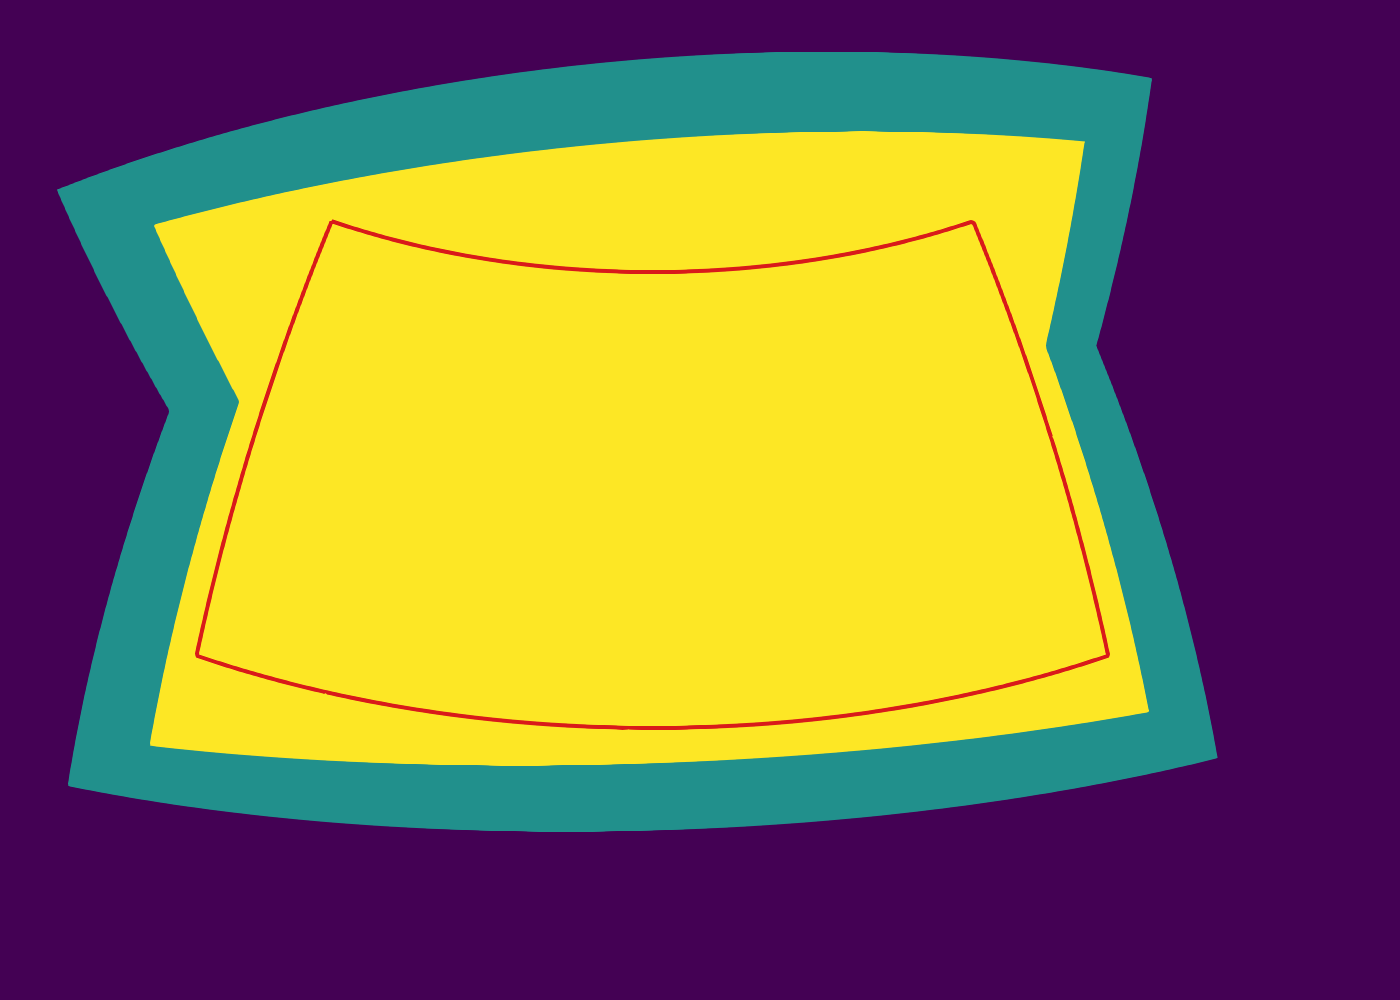
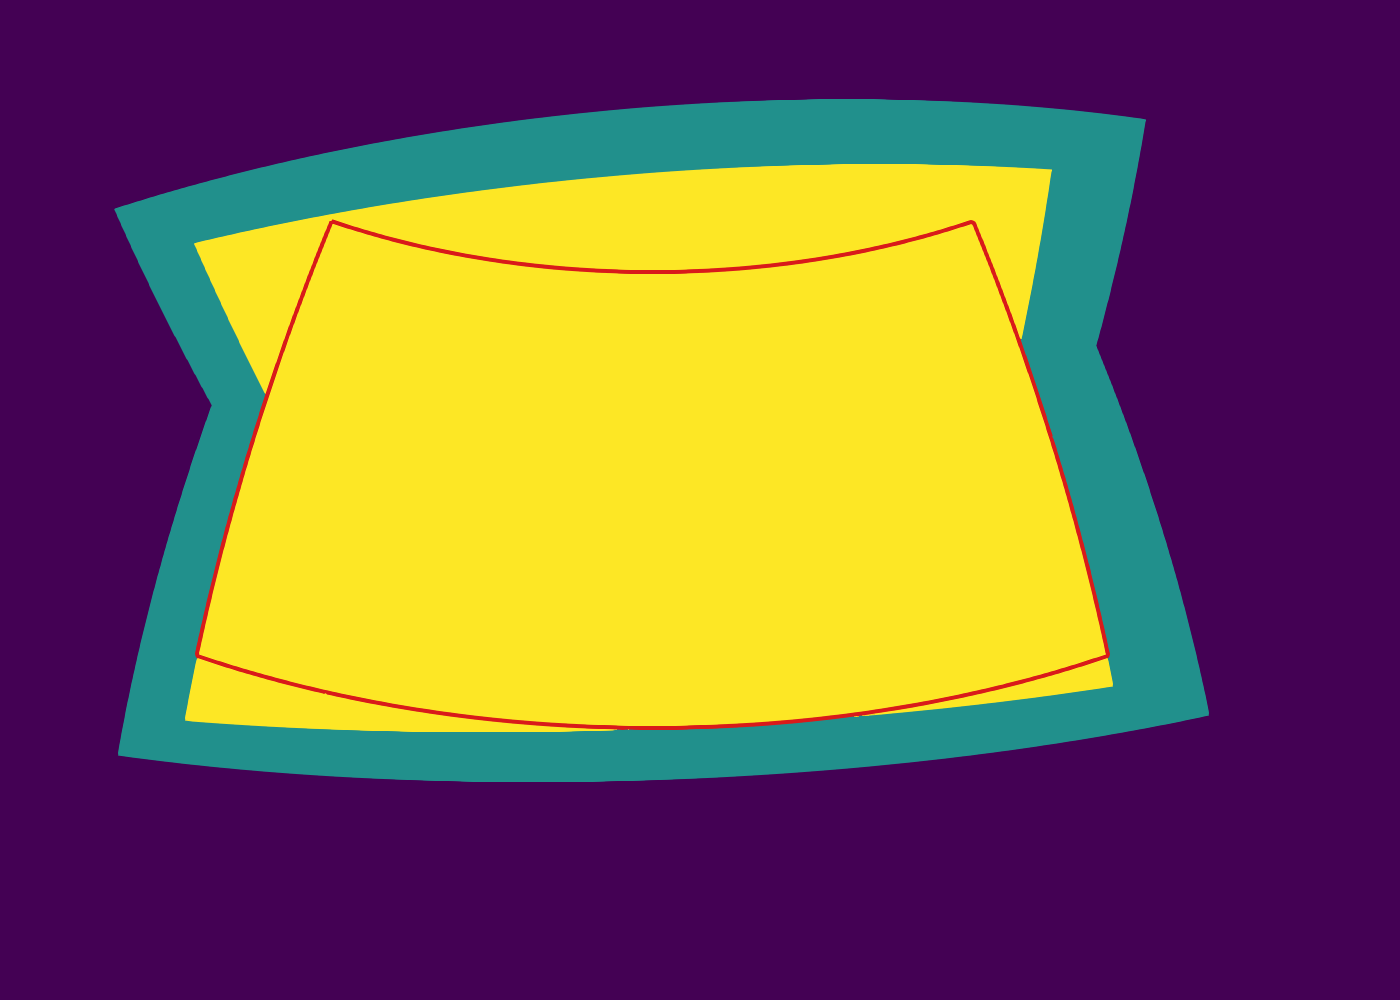
Show the optimized mesh in the regional figures

Changed region(s): [[0.0307, 0.031, 0.8907, 0.837]]

diff --git a/docs/figures/sets_algorithms.cpp b/docs/figures/sets_algorithms.cpp
@@ -30,6 +30,7 @@
 #include "soma/algorithms/grid_index.hpp"
 #include "soma/algorithms/laplacian.hpp"
 #include "soma/algorithms/polygon.hpp"
+#include "soma/algorithms/quality_smooth.hpp"
 #include "soma/algorithms/refine.hpp"
 #include "soma/algorithms/remap.hpp"
 #include "soma/amr/box.hpp"
@@ -848,13 +849,14 @@ void set_readparts(const soma::Comm& comm, const fs::path& out) {
 }
 
 // regional: the cubed sphere ne30 refined to 12 km over the contiguous United
-// States as examples/regional_refine does (2 passes, on the unit sphere,
-// written at the Earth's radius); refined.vtk, and
-// centroids.vtk after 20 sweeps of centroid smoothing onto the sphere, with
-// min_angle and refine:level, turned so that the box's centre (37 N, 95.5 W)
-// is at +z, north +y and east +x (a view from above is the map there);
-// regional.json with the cell counts and, for refined, neighbours and
-// centroids, the least and mean min_angle and the cells under 45 degrees.
+// States as examples/regional_refine does (2 passes, bands of 3 cells or more,
+// on the unit sphere, written at the Earth's radius); refined.vtk,
+// centroids.vtk after 20 sweeps of centroid smoothing onto the sphere, and
+// optimized.vtk after quality_smooth from there, with min_angle and
+// refine:level, turned so that the box's centre (37 N, 95.5 W) is at +z, north
+// +y and east +x (a view from above is the map there); regional.json with the
+// cell counts and, per mesh, the least and mean min_angle, the cells under 45
+// degrees and the worst aspect.
 void set_regional(const soma::Comm& comm, const fs::path& out) {
   constexpr double radius = 6.37122e6;
   regional::Options o;
@@ -862,10 +864,12 @@ void set_regional(const soma::Comm& comm, const fs::path& out) {
   soma::sem::CubedSphereSpec spec;
   spec.ne = 30;
   spec.radius = 1;  // the example works on the unit sphere
-  soma::HostMesh mesh = soma::sem::cubed_sphere_mesh(comm, spec);
-  const double cells0 = comm.allreduce(static_cast<double>(mesh.segment_table(2).owned_end), soma::Op::sum);
-  const regional::Passes made = regional::refine_regions(comm, mesh, o);
-  require(made.passes == 2 && made.marked == 0, "regional: two passes reach 12 km");
+  const soma::HostMesh start = soma::sem::cubed_sphere_mesh(comm, spec);
+  const double cells0 = comm.allreduce(static_cast<double>(start.segment_table(2).owned_end), soma::Op::sum);
+  regional::Graded graded = regional::refine_graded(comm, start, o);
+  require(graded.passes.passes == 2 && graded.passes.marked == 0 && graded.settled,
+          "regional: two passes reach 12 km, bands of 3 cells or more");
+  soma::HostMesh mesh = std::move(graded.mesh);
   const double cells = comm.allreduce(static_cast<double>(mesh.segment_table(2).owned_end), soma::Op::sum);
   // About z by 95.5 degrees (the centre to longitude 0), about y by 37 - 90
   // degrees (to +z), then x <- y, y <- -x (north to +y).
@@ -885,12 +889,23 @@ void set_regional(const soma::Comm& comm, const fs::path& out) {
   char head[96];
   std::snprintf(head, sizeof head, "{\"cells\": [%.0f, %.0f]", cells0, cells);
   std::string js = head;
-  for (const char* name : {"refined", "neighbours", "centroids"}) {
-    soma::HostMesh m = mesh.clone();
+  soma::HostMesh smoothed = mesh.clone();
+  for (const char* name : {"refined", "neighbours", "centroids", "optimized"}) {
     const std::string n = name;
-    if (n != "refined") {
-      const auto method = n == "neighbours" ? soma::SmoothMethod::neighbours : soma::SmoothMethod::centroids;
-      (void)soma::laplacian_smooth(comm, m, {.iterations = 20, .method = method, .sphere_radius = 1});
+    soma::HostMesh m;
+    if (n == "refined") {
+      m = mesh.clone();
+    } else if (n == "neighbours") {
+      m = mesh.clone();
+      (void)soma::laplacian_smooth(comm, m, {.iterations = 20, .method = soma::SmoothMethod::neighbours,
+                                             .sphere_radius = 1});
+    } else if (n == "centroids") {
+      (void)soma::laplacian_smooth(comm, smoothed, {.iterations = 20, .method = soma::SmoothMethod::centroids,
+                                                    .sphere_radius = 1});
+      m = smoothed.clone();
+    } else {
+      (void)soma::quality_smooth(comm, smoothed, {.sphere_radius = 1});
+      m = smoothed.clone();
     }
     const regional::Row r = regional::assess(comm, m, o);
     if (n != "neighbours") {
@@ -898,9 +913,10 @@ void set_regional(const soma::Comm& comm, const fs::path& out) {
       soma::write_file(comm, m, (out / (n + ".vtk")).string(),
                        {.vtk_fields = std::vector<std::string>{"min_angle", "refine:level"}});
     }
-    char row[160];
-    std::snprintf(row, sizeof row, ", \"%s\": {\"least\": %.2f, \"mean\": %.2f, \"under_45\": %.0f}", name,
-                  r.least, r.mean, r.under_45);
+    char row[192];
+    std::snprintf(row, sizeof row,
+                  ", \"%s\": {\"least\": %.2f, \"mean\": %.2f, \"under_45\": %.0f, \"aspect\": %.3f}", name, r.least,
+                  r.mean, r.under_45, r.aspect);
     js += row;
   }
   write_json(comm, out / "regional.json", js + "}");

diff --git a/docs/figures/figures_algorithms.py b/docs/figures/figures_algorithms.py
@@ -134,12 +134,12 @@ def regional_levels(data, path):
 @figure("regional-quality", ["regional"], "png")
 def regional_quality(data, path):
     pv, view = pv_view()
-    left = pv.LegacyVTKReader(FileNames=[str(data / "regional" / "refined.vtk")])
-    right = pv.LegacyVTKReader(FileNames=[str(data / "regional" / "centroids.vtk")])
-    # Each panel a map 900 km across about a transition, the second moved 1150 km to the right.
+    sources = [pv.LegacyVTKReader(FileNames=[str(data / "regional" / f"{n}.vtk")])
+               for n in ("refined", "centroids", "optimized")]
+    # Each panel a map 900 km across about a transition, each moved 1150 km right of the one before.
     half, shift = 4.5e5, 1.15e6
     centre = REGIONAL_ZOOM
-    for k, source in enumerate((left, right)):
+    for k, source in enumerate(sources):
         # The cells about the centre (whole cells, near side only), then moved into their panel.
         window = pv.ExtractCellsByRegion(Input=source)
         window.IntersectWith = "Box"
@@ -155,18 +155,20 @@ def regional_quality(data, path):
     lut.RescaleTransferFunction(30.0, 90.0)
     lut.AutomaticRescaleRangeMode = "Never"
     labels(pv, view, "min_angle", [30, 45, 60, 75, 90], "{:.0f}")
-    pv_label(pv, view, "refined", [0.07, 0.86])
-    pv_label(pv, view, "20 sweeps of centroids", [0.45, 0.86])
-    # Whole cells reach past each panel's 900 km: 100 km of margin, and the colour bar's sixth on the right.
-    margin = 1.0e5
-    width = (2 * half + shift + 2 * margin) / (5 / 6)
-    focal = [-half - margin + width / 2, 0.0, REGIONAL_RADIUS]
+    pv_label(pv, view, "refined", [0.05, 0.80])
+    pv_label(pv, view, "centroids", [0.32, 0.80])
+    pv_label(pv, view, "optimized", [0.59, 0.80])
+    # Whole cells reach past each panel's 900 km (the 300 km ones most, on the left): 250 km of margin there, 100
+    # km on the right, and the colour bar's sixth.
+    left_margin, margin = 2.5e5, 1.0e5
+    width = (2 * half + 2 * shift + left_margin + margin) / (5 / 6)
+    focal = [-half - left_margin + width / 2, 0.0, REGIONAL_RADIUS]
     save_png(pv, view, path, {"position": [focal[0], 0.0, 2.0e7], "focal": focal, **TOP,
                               "parallel_scale": width / 1.4 / 2})
 
 
 # The close-up's centre in set_regional's turned frame (m): south-west of the box, where the 33 km cells (level 2)
-# meet the 100 km band (level 1, one cell wide there) and the 300 km cells.
+# meet the band of 100 km cells (level 1) and the 300 km cells.
 REGIONAL_ZOOM = (-3.08e6, -1.0e6)
 
 
